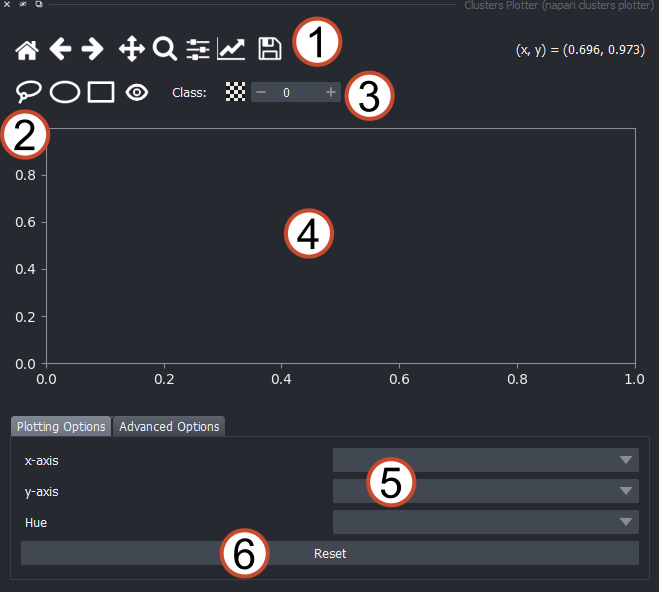
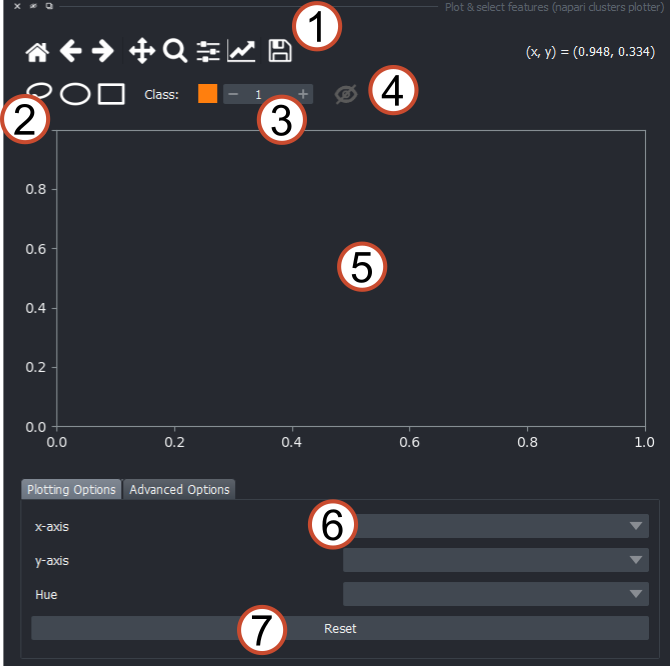
update docs for changes in biaplotter

diff --git a/docs/usage/plotter_widget.md b/docs/usage/plotter_widget.md
@@ -3,8 +3,8 @@
 
 The plotter widget is the heart of the napari-clusters-plotter. To open it, open a napari viewer and find the Plotter Widget either under
 
-- `Layers > Visualize > Features > Clusters Plotter (napari-clusters-plotter)`
-- `Plugins > napari-clusters-plotter > Clusters Plotter (napari-clusters-plotter)`
+- `Layers > Visualize > Plot & select features (napari-clusters-plotter)`
+- `Plugins > napari-clusters-plotter > Plot & select features (napari-clusters-plotter)`
 
 ## Widget overview
 
@@ -18,9 +18,20 @@ The core functionality of the plugin is available to you directly upon opening i
     - Ellipse selector (drag and drop, confirm with rightclick)
     - Rectangle selector (drag & drop, confirm with right-click)
 3. Selected cluster index: Depending on which color/number is selected here, regions in the plot will be counted as members of this cluster group and highlighted accordingly
-4. Canvas: Features will be visualized here
-5. What feature to plot on the x-axis and y-axis, respectively. The `Hue` dropdown controls the coloring of the data on the canvas, categorical features are highlighted in orange.
-6. Reset button: Resets all drawn clusters
+4. Show/Hide: Show or hide the selected points or histogram bins on the canvas.
+5. Canvas: Features will be visualized here
+6. What feature to plot on the x-axis and y-axis, respectively. The `Hue` dropdown controls the coloring of the data on the canvas, categorical features are highlighted in orange.
+7. Reset button: Resets all drawn clusters
+
+![Advanced settings](./imgs/plotter_overview3_annotated.png)
+
+Under the `Advanced Options` tab, you have access to some more customization options for the visualization:
+
+8. Change the colormap for the chosen overlay color. If a layer is colored by a non-categorical feature, this determines the colormap for the depiction. Only enabled if a non-categorical feature is selected in the `Hue` dropdown.
+9. Apply a log-scale to the chosen feature
+10. Switch plot type between `SCATTER` and `HISTOGRAM2D`
+11. Colorap for 2D histogram (only enabled if `HISTOGRAM2D` is selected in 10.)
+12. Change the size of the bins (only enabled if `HISTOGRAM2D` is selected in 10.)
 
 ## Visualizing layer features
 
@@ -34,9 +45,13 @@ The dropdown menus for `x-axis`, `y-axis` and `Hue` are then automatically popul
 
 ![Selecting layer features: defaults](./imgs/selecting_layers2.png)
 
-For Label layers, we can observe, that all colors turn into a default white color as soon as we start visualizing the data. When we start drawing, we see the respective items showing up in the color we selected as cluster index (see above). If we want to reset the selection, we can press the `Reset` button. Note, that for `Labels` data, this will not make the coloring of the labels go back to the random coloring that you may be used to from napari. To reset the colors back to their random coloring, you can use the `Shuffle Colors` button on the napari layer control for the selected layer:
+For Label layers, we can observe that the initial random label colors are retained by default (i.e., the selection overlay is invisible by default):
 
-![Drawning and reseting colors](./imgs/selecting_layers3.gif)
+![Invisible overlay for labels](./imgs/selecting_layers5.png)
+
+When we start drawing or untoggle the visibility button, we see the respective items showing up in the color we selected as cluster index (see above). If we want to reset the selection, we can press the `Reset` button. For `Labels` data, the color will revert back to the default (random colors) as soon as the layer is unselected. To retain the cluster selection, simply keep the layer selected in the napari layer list.
+
+![Drawing and reseting colors](./imgs/selecting_layers3.gif)
 
 ## Cross-layer visualization
 
